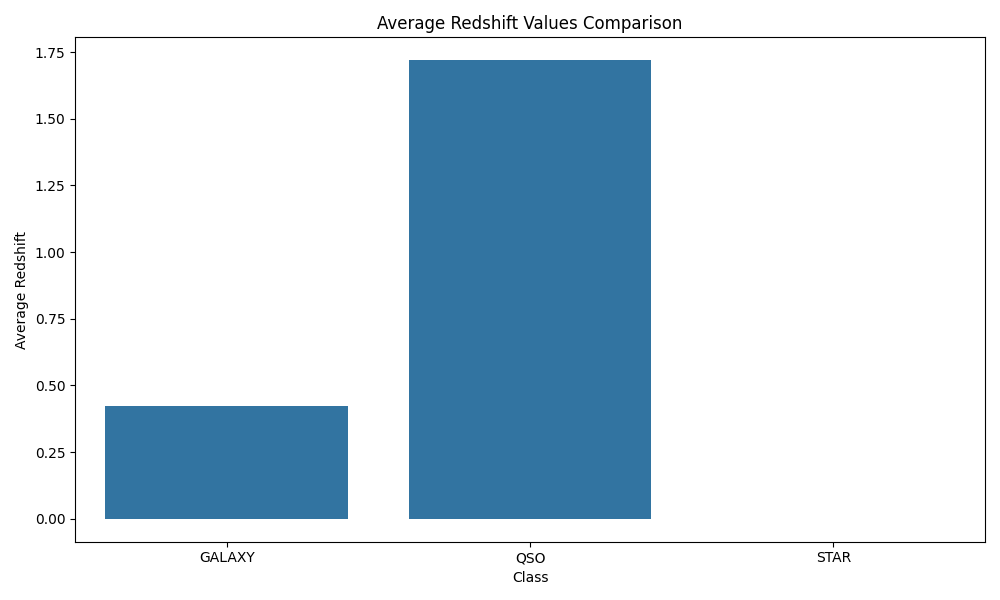
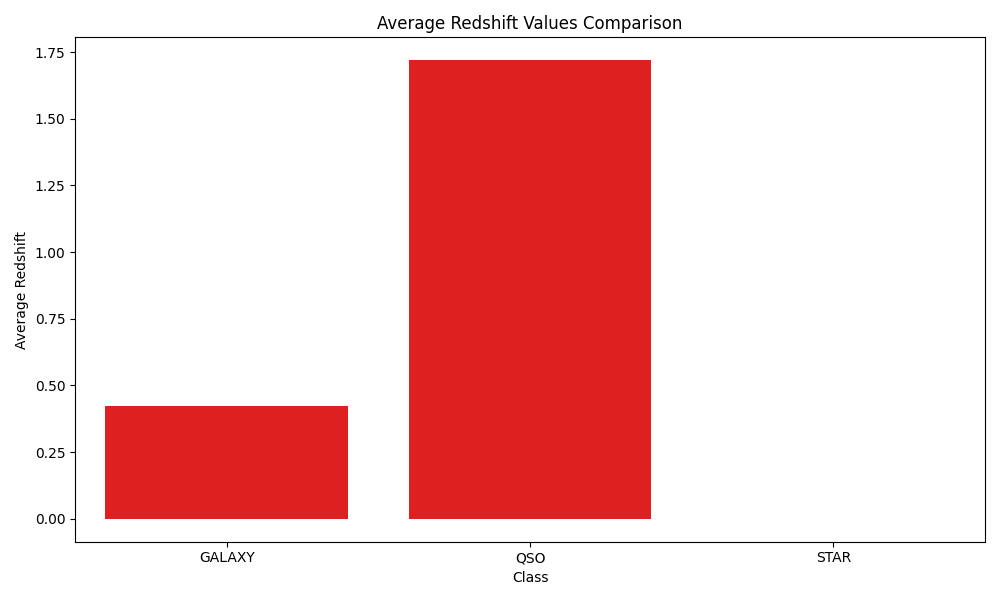
added query out and query modifications

Changed region(s): [[0.403, 0.09, 0.651, 0.87], [0.093, 0.66, 0.372, 0.87]]

diff --git a/query.py b/query.py
@@ -51,14 +51,14 @@ def plot_avg_stddev_by_class(result):
 # Query 2
 def plot_highest_redshift(result):
     object_ids = [row[0] for row in result]
-    redshifts = [row[-2] for row in result]
+    redshifts = [row[1] for row in result]
 
     plt.figure(figsize=(10, 6))
-    sns.barplot(x=object_ids, y=redshifts)
+    sns.barplot(x=object_ids, y=redshifts, color='red')
     plt.xticks(rotation=45)
     plt.xlabel('Object ID')
     plt.ylabel('Redshift')
-    plt.title('Top 10 Celestial Objects with Highest Redshift')
+    plt.title('Top 10 Plates with Highest Redshift')
     plt.tight_layout()
 
     plot_filename = os.path.join(plots_dir, 'highest_redshift.png')
@@ -102,7 +102,7 @@ def plot_avg_redshift_comparison(result):
     avg_redshifts = [row[1] for row in result]
 
     plt.figure(figsize=(10, 6))
-    sns.barplot(x=classes, y=avg_redshifts)
+    sns.barplot(x=classes, y=avg_redshifts, color='red')
     plt.xlabel('Class')
     plt.ylabel('Average Redshift')
     plt.title('Average Redshift Values Comparison')
@@ -137,8 +137,8 @@ predefined_queries = {
            STDDEV(i) AS stddev_near_infrared, AVG(z) AS avg_infrared, 
            STDDEV(z) AS stddev_infrared 
            FROM celestial_observations GROUP BY class"""),
-    2: ("Celestial Objects with Highest Redshift",
-        """SELECT *, plate 
+    2: ("Plates with Highest Redshift",
+        """SELECT plate, redshift
             FROM celestial_observations 
             ORDER BY redshift 
             DESC LIMIT 10"""),
@@ -154,7 +154,7 @@ predefined_queries = {
            GROUP BY plate
            ORDER BY observation_count ASC
            LIMIT 10)"""),
-    4: ("Average Redshift Values Comparison",
+    4: ("Redshift Values Comparison",
         """SELECT class, AVG(redshift) AS average_redshift, MIN(redshift) AS min_redshift, 
            MAX(redshift) AS max_redshift 
            FROM celestial_observations 

diff --git a/README.md b/README.md
@@ -75,7 +75,7 @@ SELECT
 FROM celestial_observations
 GROUP BY class;
 ```
-
+![Alt text](output_screenshots/query1.png)
 ![Alt text](query_generated_plots/avg_stddev_by_class.png)
 
 
@@ -88,12 +88,12 @@ _Write your analysis here._
 
 **SQL Query**:
 ```sql
-SELECT *, plate
+SELECT plate, redshift
 FROM celestial_observations
 ORDER BY redshift DESC
 LIMIT 10;
 ```
-
+![Alt text](output_screenshots/query2.png)
 ![Alt text](query_generated_plots/highest_redshift.png)
 
 **Analysis**: 
@@ -116,7 +116,7 @@ UNION ALL
  ORDER BY observation_count ASC
  LIMIT 10);
 ```
-
+![Alt text](output_screenshots/query3.png)
 ![Alt text](query_generated_plots/distribution_across_plates.png)
 
 **Analysis**: 
@@ -133,17 +133,18 @@ SELECT class, AVG(redshift) AS average_redshift, MIN(redshift) AS min_redshift,
 FROM celestial_observations 
 GROUP BY class;
 ```
-
+![Alt text](output_screenshots/query4.png)
 ![Alt text](query_generated_plots/avg_redshift_comparison.png)
 
 **Analysis**: 
     Stars: Stars have an average redshift of 0, indicating that they are neither receding nor approaching us at significant velocities on a cosmic scale. This is consistent with the fact that stars are typically part of our own galaxy or local group, where the expansion of the universe has a negligible effect on their observed redshift.
 
-    Galaxies: They exhibit a greater redshift than stars, with an average value just above 0.25. This suggests that galaxies are moving away from us, which is expected due to the expansion of the universe. The galaxies shown here are likely at a considerable distance from our own galaxy but not as distant as quasars.
+    Galaxies: Galaxies exhibit a greater redshift than stars, with an average value just above 0.25. This suggests that galaxies are moving away from us, which is expected due to the expansion of the universe. The galaxies shown here are likely at a considerable distance from our own galaxy but not as distant as quasars.
 
     Quasars (QSO): They have a much higher average redshift compared to galaxies and stars, which aligns with the fact that quasars are among the most distant objects observed in the universe. Their high redshift values indicate that they are moving away from us at a much faster rate, which is also a reflection of their vast distance and age.
 ```
 
+```
 ## Query 5: Class Frequency and Average Values for Photometric Filters
 
 **Purpose**: This query aims to count the number of celestial objects in each class (galaxy, star, quasar) within the dataset and calculate the average values for different photometric filters. This provides insight into the distribution and photometric characteristics of different celestial object classes.
@@ -163,7 +164,7 @@ FROM
 GROUP BY
   class;
 ```
-
+![Alt text](output_screenshots/query5.png)
 ![Alt text](query_generated_plots/class_frequency.png)
 
 **Analysis**: 
